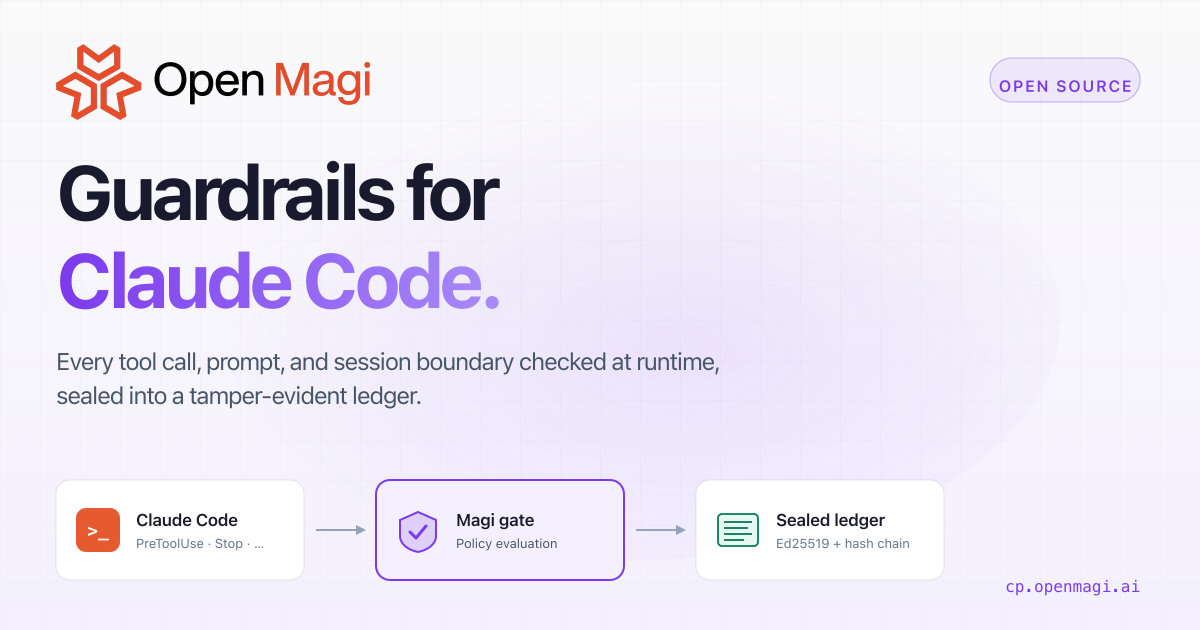
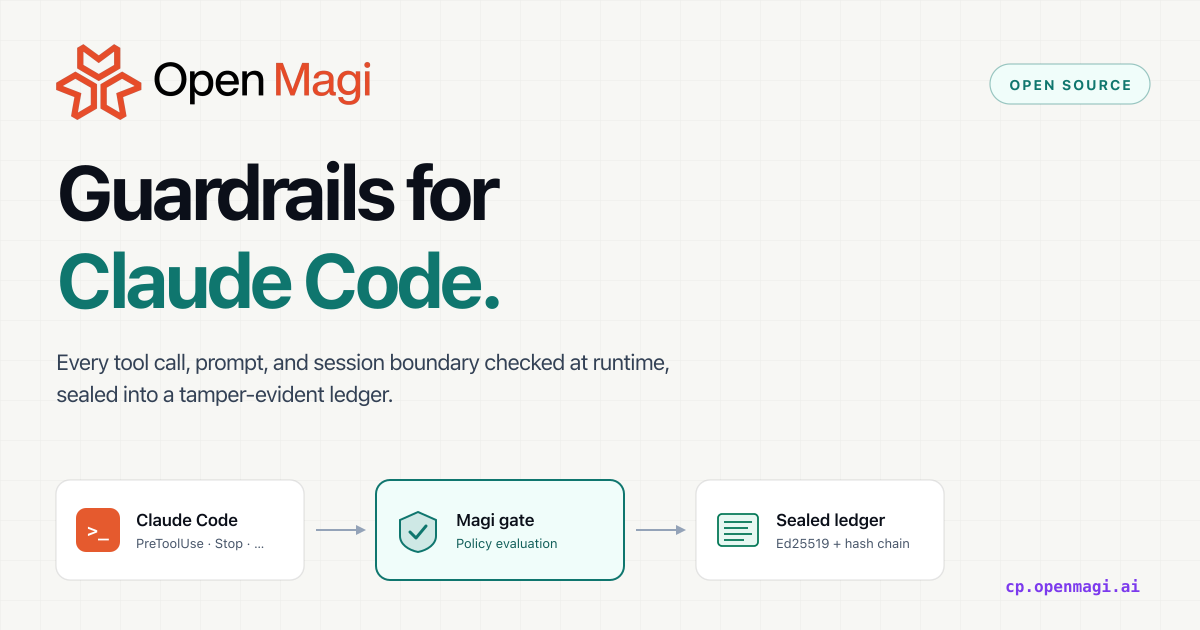
feat(og): marketing tokens (cream + teal brand), cache-buster URL
Two screenshot complaints to address:

1. The previous OG used #F4F0FF (a console nav-active overlay tint)
   as the page background and #7C3AED as the brand accent. Those
   tokens belong to the CONSOLE design system. The MARKETING canvas
   uses entirely different tokens (web/app/(marketing)/layout.tsx):
     --canvas #F7F7F4   cream off-white page background
     --ink    #0B0F19   text primary
     --body   #334155   text body
     --brand  #0F766E   teal brand mark / accent
     --cta    #7C3AED   purple, CTA-only
   Rebuild with the marketing tokens: cream canvas + teal brand on
   "Claude Code." + teal on the Magi gate accent box. CTA purple
   surfaces on the cp.openmagi.ai URL line only.

2. The "OPEN SOURCE" chip was vertically misaligned because the
   prior svg relied on dominant-baseline=middle which rsvg-convert
   handles inconsistently. Rewrite the chip with a plain rect at
   y=0..40 and a text at y=26 centered numerically. Pulled the chip
   inward (x=990) so the right edge no longer clips at 1200.

Telegram / Slack cache fix: og:image URL now embeds an
OG_IMAGE_VERSION query string ("?v=3"). Crawlers cache previews
keyed on the exact URL, so a new query string forces a clean
refetch on the next link share. Bump the constant when og-image.png
changes visibly.

diff --git a/web/app/(marketing)/welcome/page.tsx b/web/app/(marketing)/welcome/page.tsx
@@ -4,6 +4,11 @@ import { getLocale } from "@/lib/i18n/server"
 
 export const dynamic = "force-dynamic"
 
+/** Bump when og-image.png changes visibly. The OG image URL embeds
+ *  this version as a query string so Telegram / Slack / X crawlers
+ *  drop their cached preview and refetch on the next link share. */
+const OG_IMAGE_VERSION = "3"
+
 export const metadata: Metadata = {
   title: "Open Magi · Control Plane: Guardrails for Claude Code",
   description:
@@ -20,8 +25,13 @@ export const metadata: Metadata = {
     // layout's openGraph.images by definition. We have to re-declare
     // the image here. Absolute URL because Telegram + several other
     // crawlers refuse to resolve relative og:image paths.
+    //
+    // OG_IMAGE_VERSION is the cache-buster. Bumping it forces Telegram /
+    // Slack / X crawlers to refetch the image instead of serving their
+    // stale cached copy. Increment whenever og-image.png changes
+    // visibly.
     images: [{
-      url: "https://cp.openmagi.ai/og-image.png",
+      url: `https://cp.openmagi.ai/og-image.png?v=${OG_IMAGE_VERSION}`,
       width: 1200,
       height: 630,
       alt: "Open Magi Control Plane: Guardrails for Claude Code",
@@ -32,7 +42,7 @@ export const metadata: Metadata = {
     title: "Open Magi · Control Plane: Guardrails for Claude Code",
     description:
       "Run Claude Code on systems that matter. Magi catches every agent action before it ships, with rules you author in the dashboard.",
-    images: ["https://cp.openmagi.ai/og-image.png"],
+    images: [`https://cp.openmagi.ai/og-image.png?v=${OG_IMAGE_VERSION}`],
   },
   alternates: { canonical: "/welcome" },
   robots: { index: true, follow: true },